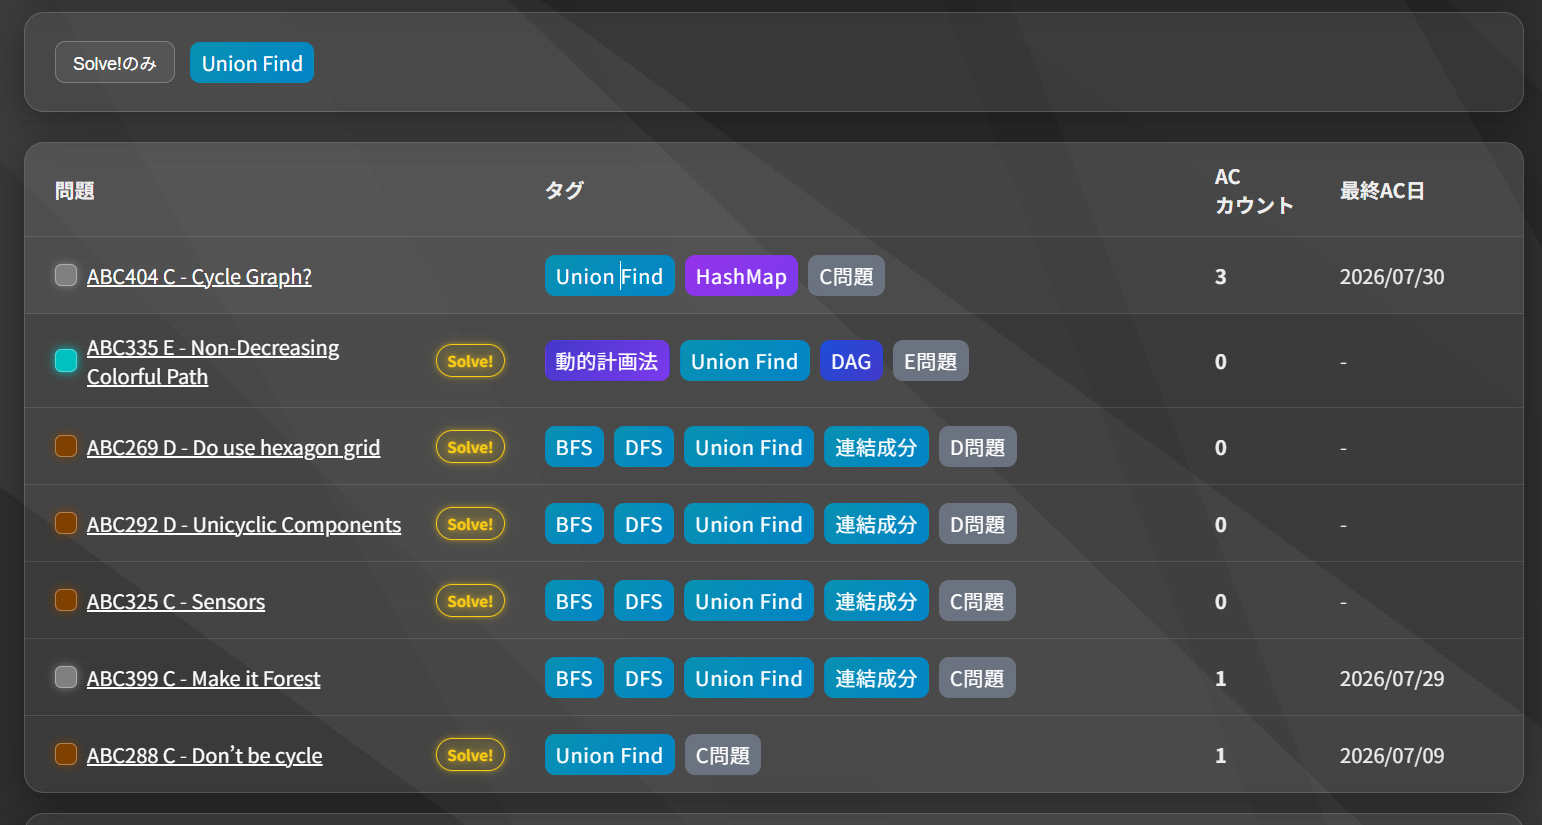
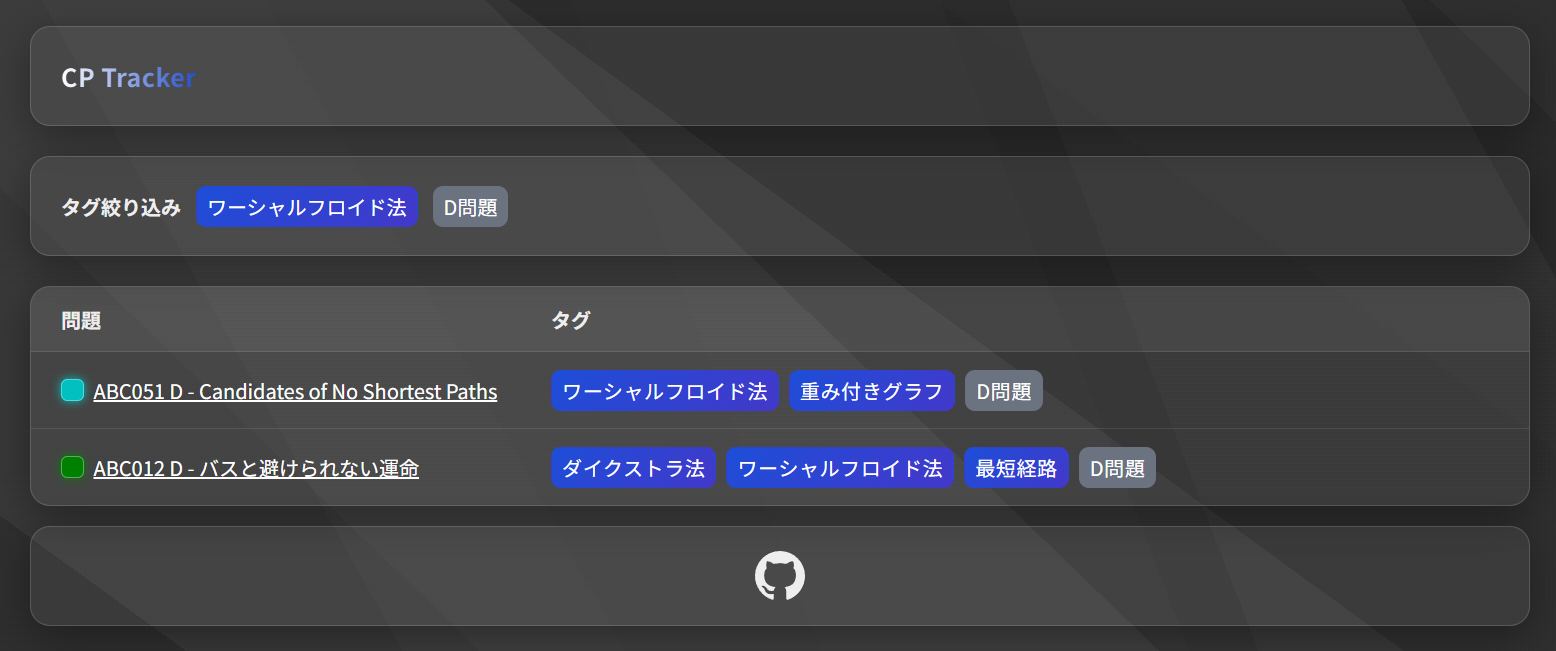
⚡ 絞り込み強化

diff --git a/src/app/_compnents/Table/Table.tsx b/src/app/_compnents/Table/Table.tsx
@@ -23,14 +23,14 @@ type Props = {
   data: Problem[];
   now: number;
   isLoggedIn: boolean;
-  setSelectedTag: Dispatch<SetStateAction<string | null>>;
+  setSelectedTags: Dispatch<SetStateAction<string[]>>;
 };
 
 export default function Table({
   data,
   now,
   isLoggedIn,
-  setSelectedTag,
+  setSelectedTags,
 }: Props) {
   const router = useRouter();
   const [confirmingId, setConfirmingId] = useState<string | null>(null);
@@ -108,9 +108,13 @@ export default function Table({
           <tr>
             <th>問題</th>
             <th>タグ</th>
-            <th>AC<br />カウント</th>
-            <th>最終AC日</th>
-            <th></th>
+            {isLoggedIn && (
+              <>
+                <th>AC<br />カウント</th>
+                <th>最終AC日</th>
+                <th></th>
+              </>
+            )}
           </tr>
         </thead>
 
@@ -132,18 +136,22 @@ export default function Table({
                     {data.title}
                   </Link>
 
-                  {shouldShowSolveBadge(data.ac_count, data.last_solved_at, now) && (
-                    <Badge
-                      label="Solve!"
-                      variant="solve"
-                    />
-                  )}
+                  {isLoggedIn && (
+                    <>
+                      {shouldShowSolveBadge(data.ac_count, data.last_solved_at, now) && (
+                        <Badge
+                          label="Solve!"
+                          variant="solve"
+                        />
+                      )}
 
-                  {isDone(data.ac_count) && (
-                    <Badge
-                      label="Done"
-                      variant="done"
-                    />
+                      {isDone(data.ac_count) && (
+                        <Badge
+                          label="Done"
+                          variant="done"
+                        />
+                      )}
+                    </>
                   )}
                 </div>
               </td>
@@ -153,46 +161,49 @@ export default function Table({
                     <Tag
                       key={`tag-${tag}`}
                       tagName={tag}
-                      onClick={() => setSelectedTag(tag)}
+                      onClick={() => setSelectedTags((prev) =>
+                        prev.includes(tag) ? prev.filter((t) => t !== tag) : [...prev, tag]
+                      )}
                     />
                   ))}
-
                 </div>
               </td>
 
-              <td>
-                <div className={styles.acCount}>
-                  <p>{data.ac_count}</p>
+              {isLoggedIn && (
+                <>
+                  <td>
+                    <div className={styles.acCount}>
+                      <p>{data.ac_count}</p>
 
-                  {isLoggedIn && (
-                    <button
-                      type="button"
-                      className={styles.acButton}
-                      onClick={() => handlerAc(data.id)}
-                    >
-                      +1
-                    </button>
-                  )}
-                </div>
-              </td>
+                      {isLoggedIn && (
+                        <button
+                          type="button"
+                          className={styles.acButton}
+                          onClick={() => handlerAc(data.id)}
+                        >
+                          +1
+                        </button>
+                      )}
+                    </div>
+                  </td>
 
-              <td>
-                <p className={styles.createdAt}>
-                  {data.last_solved_at ? formatDate(data.last_solved_at) : "-"}
-                </p>
-              </td>
+                  <td>
+                    <p className={styles.createdAt}>
+                      {data.last_solved_at ? formatDate(data.last_solved_at) : "-"}
+                    </p>
+                  </td>
 
-              <td>
-                {isLoggedIn && (
-                  <div className={styles.menu}>
-                    <RowMenu
-                      row={data}
-                      onEdit={setEditingProblem}
-                      onDelete={handleDelete}
-                    />
-                  </div>
-                )}
-              </td>
+                  <td>
+                    <div className={styles.menu}>
+                      <RowMenu
+                        row={data}
+                        onEdit={setEditingProblem}
+                        onDelete={handleDelete}
+                      />
+                    </div>
+                  </td>
+                </>
+              )}
             </tr>
           ))}
         </tbody>

diff --git a/src/app/_compnents/Header/Header.tsx b/src/app/_compnents/Header/Header.tsx
@@ -26,33 +26,37 @@ export default function Header({ isLoggedIn, acRate }: Props) {
     <header className={styles.header}>
       <h1 className={styles.title}>CP Tracker</h1>
 
-      <div className={styles.actions}>
-        <span className={styles.acRate}>
-          AC率 {acRate.rate.toFixed(1)}% ({acRate.numerator}/{acRate.denominator})
-        </span>
+      {isLoggedIn && (
+        <>
+          <div className={styles.actions}>
+            <span className={styles.acRate}>
+              AC率 {acRate.rate.toFixed(1)}% ({acRate.numerator}/{acRate.denominator})
+            </span>
 
-        {showProductionBadge && <span className={styles.productionBadge}>本番データ</span>}
+            {showProductionBadge && <span className={styles.productionBadge}>本番データ</span>}
 
-        {isLoggedIn && (
-          <>
-            <span className={styles.loggedInBadge}>ログイン中</span>
+            {isLoggedIn && (
+              <>
+                <span className={styles.loggedInBadge}>ログイン中</span>
 
-            <button
-              type="button"
-              className={styles.addButton}
-              onClick={() => setIsOpenCreateProblemModal(true)}
-            >
-              問題を追加する
-            </button>
-          </>
-        )}
+                <button
+                  type="button"
+                  className={styles.addButton}
+                  onClick={() => setIsOpenCreateProblemModal(true)}
+                >
+                  問題を追加する
+                </button>
+              </>
+            )}
 
-      </div>
+          </div>
 
-      <CreateProblemModal
-        open={isOpenCreateProblemModal}
-        onClose={() => setIsOpenCreateProblemModal(false)}
-      />
+          <CreateProblemModal
+            open={isOpenCreateProblemModal}
+            onClose={() => setIsOpenCreateProblemModal(false)}
+          />
+        </>
+      )}
     </header>
   );
 }

diff --git a/src/app/_compnents/Filter/Filter.tsx b/src/app/_compnents/Filter/Filter.tsx
@@ -3,34 +3,45 @@ import Tag from "../Tag/Tag";
 import styles from "./filter.module.css";
 
 type Props = {
+  isLoggedIn: boolean;
   onlySolve: boolean;
   onClick: (prev: boolean) => void;
-  selectedTag: string | null;
-  setSelectedTag: Dispatch<SetStateAction<string | null>>;
+  selectedTags: string[];
+  setSelectedTags: Dispatch<SetStateAction<string[]>>;
 };
 
 export default function Filter({
+  isLoggedIn,
   onlySolve,
   onClick,
-  selectedTag,
-  setSelectedTag,
+  selectedTags,
+  setSelectedTags,
 }: Props) {
   return (
     <div className={styles.filters}>
-      <button
-        type="button"
-        className={onlySolve ? `${styles.filterButton} ${styles.filterButtonActive}` : styles.filterButton}
-        onClick={() => onClick(!onlySolve)}
-      >
-        Solve!のみ
-      </button>
-
-      {selectedTag && (
-        <Tag
-          tagName={selectedTag}
-          onClick={() => setSelectedTag(null)}
-        />
+      {isLoggedIn && (
+        <button
+          type="button"
+          className={onlySolve ? `${styles.filterButton} ${styles.filterButtonActive}` : styles.filterButton}
+          onClick={() => onClick(!onlySolve)}
+        >
+          Solve!のみ
+        </button>
       )}
+
+      <p
+        className={`${styles.label} ${selectedTags.length !== 0 ? "" : styles.empty}`}
+      >
+        タグ絞り込み
+      </p>
+
+      {selectedTags.map((tag) => (
+        <Tag
+          key={`selected-tag-${tag}`}
+          tagName={tag}
+          onClick={() => setSelectedTags((prev) => prev.filter((t) => t !== tag))}
+        />
+      ))}
     </div>
   );
 }

diff --git a/src/app/_compnents/Contents.tsx b/src/app/_compnents/Contents.tsx
@@ -21,14 +21,14 @@ export default function Contents({
 }: Props) {
   const [onlySolve, setOnlySolve] = useState(false);
 
-  const [selectedTag, setSelectedTag] = useState<string | null>(null);
+  const [selectedTags, setSelectedTags] = useState<string[]>([]);
 
   const filteredData = problems.filter((problem) => {
     if (onlySolve && !shouldShowSolveBadge(problem.ac_count, problem.last_solved_at, now)) {
       return false;
     }
 
-    if (selectedTag && !problem.tags.includes(selectedTag)) {
+    if (!selectedTags.every((tag) => problem.tags.includes(tag))) {
       return false;
     }
 
@@ -40,17 +40,18 @@ export default function Contents({
   return (
     <>
       <Filter
+        isLoggedIn={isLoggedIn}
         onlySolve={onlySolve}
         onClick={setOnlySolve}
-        selectedTag={selectedTag}
-        setSelectedTag={setSelectedTag}
+        selectedTags={selectedTags}
+        setSelectedTags={setSelectedTags}
       />
 
       <Table
         data={filteredData}
         now={now}
         isLoggedIn={isLoggedIn}
-        setSelectedTag={setSelectedTag}
+        setSelectedTags={setSelectedTags}
       />
     </>
   );

diff --git a/src/app/layout.tsx b/src/app/layout.tsx
@@ -1,10 +1,10 @@
+import "./globals.css";
 import Header from "./_compnents/Header/Header";
 import QueryProvider from "./_compnents/QueryProvider";
-import styles from "./layout.module.css";
 import meServer from "./apis/me.server";
 import fetchProblemsServer from "./apis/fetchProblems.servre";
 import Footer from "./_compnents/Footer/Footer";
-import "./globals.css";
+import styles from "./layout.module.css";
 import type { Problem } from "@/types";
 
 function calcAcRate(problems: Problem[]) {
@@ -30,7 +30,9 @@ export default async function RootLayout({
         <QueryProvider>
           <div className={styles.wrapper}>
             <Header isLoggedIn={isLoggedIn} acRate={acRate} />
+
             {children}
+
             <Footer />
           </div>
         </QueryProvider>

diff --git a/src/app/_compnents/Tag/Tag.tsx b/src/app/_compnents/Tag/Tag.tsx
@@ -1,16 +1,13 @@
 import { getTagColor } from "@/lib/tagColors";
 import styles from "./tag.module.css";
-import { Dispatch, SetStateAction } from "react";
 
 type Props = {
   tagName: string;
-  // setSelectedTag: Dispatch<SetStateAction<string | null>>;
   onClick: () => void;
 };
 
 export default function Tag({
   tagName,
-  // setSelectedTag,
   onClick,
 }: Props) {
   const { bg, text } = getTagColor(tagName);

diff --git a/src/app/_compnents/Filter/filter.module.css b/src/app/_compnents/Filter/filter.module.css
@@ -12,6 +12,14 @@
   border-radius: 16px;
   box-shadow: 0 8px 32px rgba(0, 0, 0, 0.35);
 
+  .label {
+    font-weight: 700;
+
+    &.empty {
+      color: #888;
+    }
+  }
+
   .filterButton {
     padding: 6px 14px;
     border-radius: 8px;

diff --git a/README.md b/README.md
@@ -8,6 +8,16 @@
 
 ## 機能
 
+### タグ
+
+問題に対してタグを設定。
+
+![](./images/image002.png)
+
+タグで問題を絞り込み。複数タグでのAND絞り込み可能。
+
+![](./images/image003.png)
+
 ### ACカウントと最終AC日
 
 問題ごとにACカウントを記録。最終AC日も記録。
@@ -29,15 +39,4 @@
 5回ACすると完全に理解したとみなし、Doneバッジを表示する。継続してACはできる。
 
 ![](./images/image006.png)
-
-
-### タグ
-
-問題に対してタグを設定。
-
-![](./images/image002.png)
-
-タグで問題を絞り込み。
-
-![](./images/image003.png)
 
